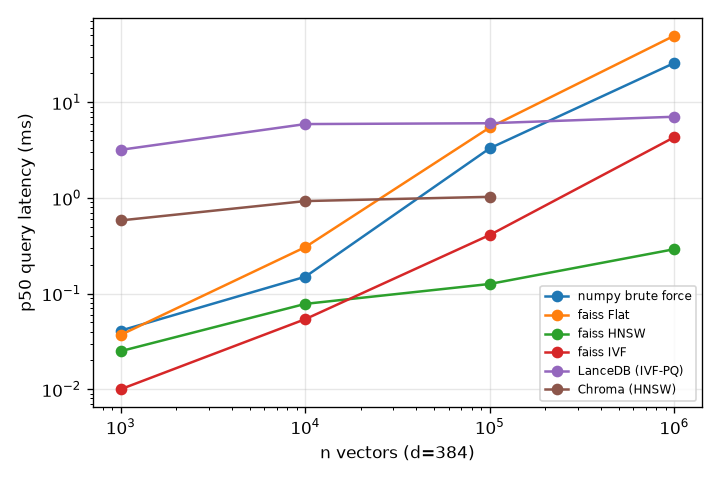
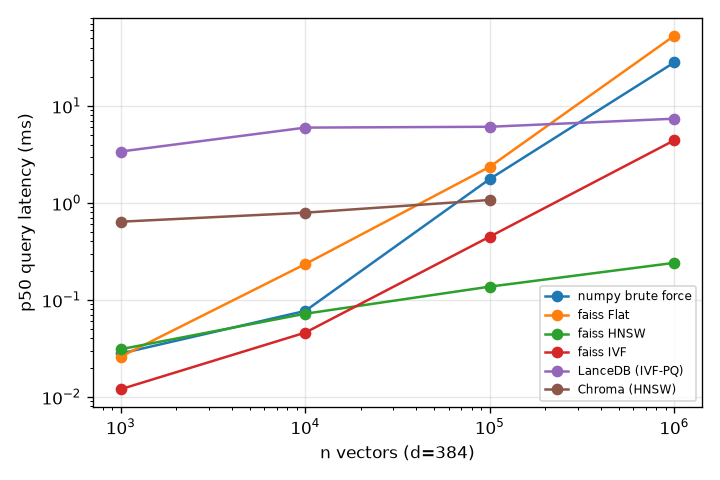
Re-run the vector store benchmark on final code (1e3 to 1e6)

diff --git a/docs/VECTOR_DB.md b/docs/VECTOR_DB.md
@@ -9,29 +9,29 @@ treat them as relative, not absolute. Raw results: `docs/benchmarks/vectordb.jso
 
 | Backend | n | recall@10 | p50 ms | p95 ms | build s | memory MB |
 |---|---|---|---|---|---|---|
-| numpy brute force | 1e3 | 1.000 | 0.04 | 0.10 | 0.00 | 0.3 |
-| faiss Flat | 1e3 | 1.000 | 0.04 | 0.04 | 0.03 | 14.4 |
-| faiss HNSW (M 32, efSearch 64) | 1e3 | 1.000 | 0.03 | 0.03 | 0.10 | 0.8 |
-| faiss IVF | 1e3 | 0.672 | 0.01 | 0.01 | 0.01 | 4.0 |
-| LanceDB IVF-PQ (refine 10) | 1e3 | 1.000 | 3.19 | 4.38 | 1.23 | 159.6 |
-| Chroma (HNSW) | 1e3 | 1.000 | 0.58 | 0.96 | 0.55 | 65.7 |
-| numpy brute force | 1e4 | 1.000 | 0.15 | 5.97 | 0.00 | 0.0 |
-| faiss Flat | 1e4 | 1.000 | 0.31 | 4.00 | 0.00 | 0.0 |
-| faiss HNSW | 1e4 | 0.950 | 0.08 | 0.14 | 0.21 | 0.0 |
-| faiss IVF | 1e4 | 0.929 | 0.05 | 0.08 | 0.40 | 18.4 |
-| LanceDB IVF-PQ | 1e4 | 0.835 | 5.92 | 7.12 | 2.30 | 221.7 |
-| Chroma (HNSW) | 1e4 | 0.971 | 0.93 | 1.95 | 0.87 | 61.5 |
-| numpy brute force | 1e5 | 1.000 | 3.31 | 17.10 | 0.04 | 153.6 |
-| faiss Flat | 1e5 | 1.000 | 5.46 | 19.16 | 0.09 | 153.6 |
-| faiss HNSW | 1e5 | 0.836 | 0.13 | 0.24 | 3.07 | 153.6 |
-| faiss IVF | 1e5 | 1.000 | 0.41 | 0.52 | 5.20 | 128.2 |
-| LanceDB IVF-PQ | 1e5 | 0.670 | 6.04 | 8.42 | 21.42 | 393.1 |
-| Chroma (HNSW) | 1e5 | 0.881 | 1.03 | 1.64 | 9.16 | 231.6 |
-| numpy brute force | 1e6 | 1.000 | 25.76 | 33.65 | 0.50 | 1536.1 |
-| faiss Flat | 1e6 | 1.000 | 49.72 | 84.19 | 1.43 | 1537.0 |
-| faiss HNSW | 1e6 | 0.468 | 0.29 | 0.52 | 40.82 | 1797.3 |
-| faiss IVF | 1e6 | 1.000 | 4.32 | 4.84 | 51.69 | 1778.4 |
-| LanceDB IVF-PQ | 1e6 | 0.765 | 7.06 | 9.23 | 45.42 | 295.0 |
+| numpy brute force | 1e3 | 1.000 | 0.03 | 0.05 | 0.00 | 0.3 |
+| faiss Flat | 1e3 | 1.000 | 0.03 | 0.04 | 0.05 | 14.3 |
+| faiss HNSW | 1e3 | 1.000 | 0.03 | 0.04 | 0.07 | 0.8 |
+| faiss IVF | 1e3 | 0.671 | 0.01 | 0.02 | 0.01 | 4.0 |
+| LanceDB (IVF-PQ) | 1e3 | 1.000 | 3.39 | 4.39 | 1.34 | 160.7 |
+| Chroma (HNSW) | 1e3 | 1.000 | 0.64 | 0.95 | 0.80 | 64.4 |
+| numpy brute force | 1e4 | 1.000 | 0.08 | 0.27 | 0.00 | 0.0 |
+| faiss Flat | 1e4 | 1.000 | 0.23 | 1.44 | 0.00 | 0.0 |
+| faiss HNSW | 1e4 | 0.950 | 0.07 | 0.10 | 0.21 | 0.0 |
+| faiss IVF | 1e4 | 0.929 | 0.05 | 0.07 | 0.26 | 18.4 |
+| LanceDB (IVF-PQ) | 1e4 | 0.841 | 5.98 | 7.73 | 2.20 | 173.8 |
+| Chroma (HNSW) | 1e4 | 0.982 | 0.79 | 1.31 | 0.77 | 69.9 |
+| numpy brute force | 1e5 | 1.000 | 1.77 | 7.62 | 0.05 | 153.6 |
+| faiss Flat | 1e5 | 1.000 | 2.36 | 10.78 | 0.20 | 153.6 |
+| faiss HNSW | 1e5 | 0.836 | 0.14 | 0.26 | 2.34 | 153.6 |
+| faiss IVF | 1e5 | 1.000 | 0.45 | 0.58 | 3.66 | 126.6 |
+| LanceDB (IVF-PQ) | 1e5 | 0.669 | 6.10 | 7.99 | 21.13 | 477.5 |
+| Chroma (HNSW) | 1e5 | 0.874 | 1.07 | 1.53 | 9.17 | 234.5 |
+| numpy brute force | 1e6 | 1.000 | 28.11 | 49.91 | 0.46 | 1536.0 |
+| faiss Flat | 1e6 | 1.000 | 53.01 | 84.06 | 1.15 | 1536.0 |
+| faiss HNSW | 1e6 | 0.468 | 0.24 | 0.41 | 41.38 | 1796.2 |
+| faiss IVF | 1e6 | 1.000 | 4.42 | 5.12 | 50.32 | 1772.2 |
+| LanceDB (IVF-PQ) | 1e6 | 0.756 | 7.38 | 9.48 | 49.97 | 284.6 |
 
 Chroma was capped at 1e5 (insert time). Memory is the RSS growth measured around the build, so small values are
 noisy and can read 0. HNSW recall falls at 1e6 because efSearch was held at 64 for every n; raising it trades
